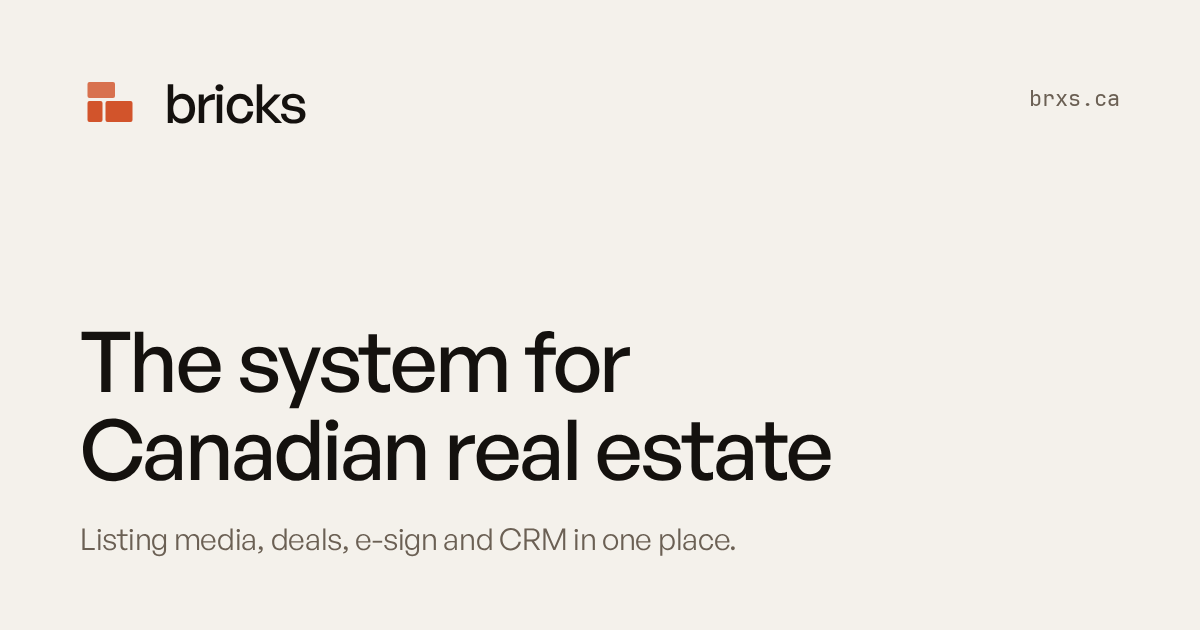
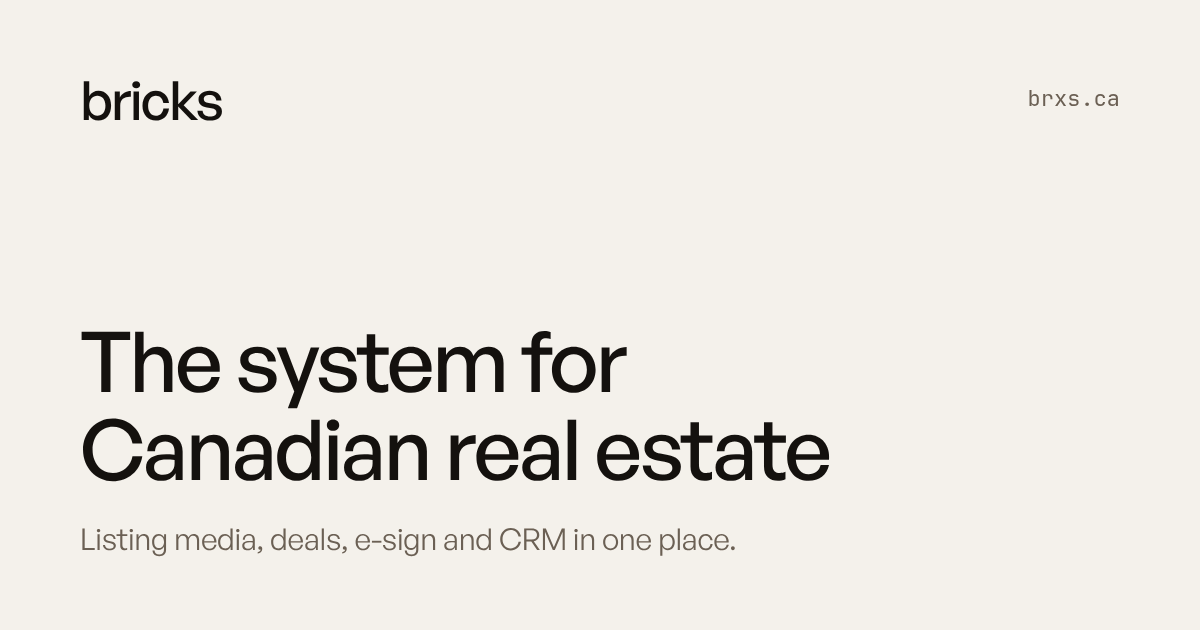
Use the wordmark alone in www and help chrome.
Drop the mark from the header, mobile drawer, footer, gate, visit
confirm, and the site-wide Open Graph image, so one logo form shows
at a time. Favicon, BIMI and schema logo stay mark-only.

diff --git a/scripts/og/og.html b/scripts/og/og.html
@@ -11,9 +11,8 @@ html,body{width:1200px;height:630px;overflow:hidden}
 body{background:#F4F1EB;color:#14110E;font-family:'General Sans',system-ui,sans-serif;
   -webkit-font-smoothing:antialiased;position:relative}
 .wrap{position:absolute;inset:0;padding:72px 80px;display:flex;flex-direction:column}
-/* Exact nav lockup (BrandMark + .wordmark) at 3x: svg 20->60, gap 8->24, 18px/-0.6px -> 54px/-1.8px */
-.brand{display:inline-flex;align-items:center;gap:24px}
-.brand svg{width:60px;height:60px;display:block}
+/* Exact nav wordmark at 3x: 18px/-0.6px -> 54px/-1.8px. Wordmark only; no mark. */
+.brand{display:inline-flex;align-items:center}
 .wordmark{font-weight:500;font-size:54px;letter-spacing:-1.8px;line-height:1}
 .head{margin-top:auto;font-weight:500;font-size:84px;line-height:1.04;letter-spacing:-.03em;max-width:980px}
 .sub{margin-top:28px;font-weight:400;font-size:30px;line-height:1.3;letter-spacing:-.01em;color:#6B6054}
@@ -21,11 +20,6 @@ body{background:#F4F1EB;color:#14110E;font-family:'General Sans',system-ui,sans-
 </style></head>
 <body><div class="wrap">
   <div class="brand">
-    <svg viewBox="0 0 24 24" fill="none" aria-hidden="true">
-      <rect x="3" y="4" width="11" height="6.4" rx="0.8" fill="#D2542B" opacity="0.82" />
-      <rect x="3" y="11.6" width="6" height="8.4" rx="0.8" fill="#D2542B" />
-      <rect x="10.2" y="11.6" width="10.8" height="8.4" rx="0.8" fill="#D2542B" />
-    </svg>
     <span class="wordmark">bricks</span>
   </div>
   <div class="head">The system for<br>Canadian real estate</div>

diff --git a/src/components/Nav.tsx b/src/components/Nav.tsx
@@ -3,7 +3,6 @@
 import { useEffect, useRef, useState } from 'react'
 import Link from '@/components/SiteLink'
 import { usePathname } from 'next/navigation'
-import BrandMark from '@/components/BrandMark'
 import { OS_LOGIN, OS_URL } from '@/lib/brand'
 import { clearHintCookies, osLogoutUrl } from '@/lib/site-session'
 import { HELP_URL, audienceLinks, softwareGroups, type NavItem } from '@/lib/nav'
@@ -88,7 +87,6 @@ export default function Nav() {
         <div className="nav">
           <div className="brand-cluster">
             <Link href="/" className="brand" aria-label="Bricks — home">
-              <BrandMark />
               <span className="wordmark">bricks</span>
             </Link>
             <span className="nav-flag">Canada</span>
@@ -195,7 +193,6 @@ export default function Nav() {
       >
         <div className="drawer-head">
           <Link href="/" className="brand" aria-label="Bricks — home" onClick={() => setOpen(false)}>
-            <BrandMark />
             <span className="wordmark">bricks</span>
           </Link>
           <button className="drawer-close" aria-label="Close menu" onClick={() => setOpen(false)}>

diff --git a/src/components/Footer.tsx b/src/components/Footer.tsx
@@ -3,7 +3,6 @@ import Link from '@/components/SiteLink'
 import { isTradeEnabled } from '@/lib/services'
 import { COMPANION_URL, GO_URL, OS_LOGIN, STATUS } from '@/lib/brand'
 import { LEGAL_NAME, SOCIAL_PROFILES } from '@/lib/schema'
-import BrandMark from '@/components/BrandMark'
 import ThemeToggle from '@/components/ThemeToggle'
 import { SOFTWARE_MODULES, moduleHref } from '@/lib/software-modules'
 
@@ -14,7 +13,6 @@ export default function Footer({ children }: { children?: ReactNode }) {
       <div className="foot-inner">
         <div className="foot-brand">
           <Link href="/" className="brand" aria-label="Bricks — home">
-            <BrandMark />
             <span className="wordmark">bricks</span>
           </Link>
           <p className="foot-blurb">

diff --git a/src/app/globals.css b/src/app/globals.css
@@ -55,6 +55,7 @@ header{position:sticky;top:0;z-index:70;background:color-mix(in srgb, var(--pape
 .brand-cluster{display:flex;align-items:center;gap:12px;min-width:0;}
 .brand{display:inline-flex;align-items:center;gap:8px;min-height:44px;text-decoration:none;color:var(--ink);}
 .brand svg{height:20px; width:20px;display:block;}
+/* Header/footer chrome is wordmark-only. .brand svg remains for any non-chrome mark. */
 .brand-mark{display:flex;align-items:center;}
 .brand-mark svg rect{transform-origin:center;}
 .brand:hover .brand-mark svg rect:nth-child(1){animation:brickPop .5s var(--ease-out, cubic-bezier(.16,1,.3,1)) forwards;}

diff --git a/src/app/visit/confirm/VisitConfirm.tsx b/src/app/visit/confirm/VisitConfirm.tsx
@@ -1,7 +1,6 @@
 'use client'
 
 import { useState } from 'react'
-import BrandMark from '@/components/BrandMark'
 import BricksLoader from '@/components/BricksLoader'
 import { BookCalendar } from '@/app/book/BookCalendar'
 import type { VisitState } from '@/lib/plan-visit'
@@ -21,7 +20,6 @@ function Shell({ children }: { children: React.ReactNode }) {
     <main className="pv">
       <header className="pv-top">
         <a href="/" className="brand" aria-label="Bricks — home">
-          <BrandMark />
           <span className="wordmark">bricks</span>
         </a>
       </header>

diff --git a/src/app/gate/page.tsx b/src/app/gate/page.tsx
@@ -2,7 +2,6 @@
 
 import { FormEvent, Suspense, useState } from 'react'
 import { useRouter, useSearchParams } from 'next/navigation'
-import BrandMark from '@/components/BrandMark'
 
 function GateForm() {
   const router = useRouter()
@@ -58,7 +57,6 @@ function GateForm() {
             justifyContent: 'center',
           }}
         >
-          <BrandMark />
           <span className="wordmark">bricks</span>
         </div>
         <form onSubmit={onSubmit} style={{ display: 'flex', flexDirection: 'column', gap: 12 }}>
